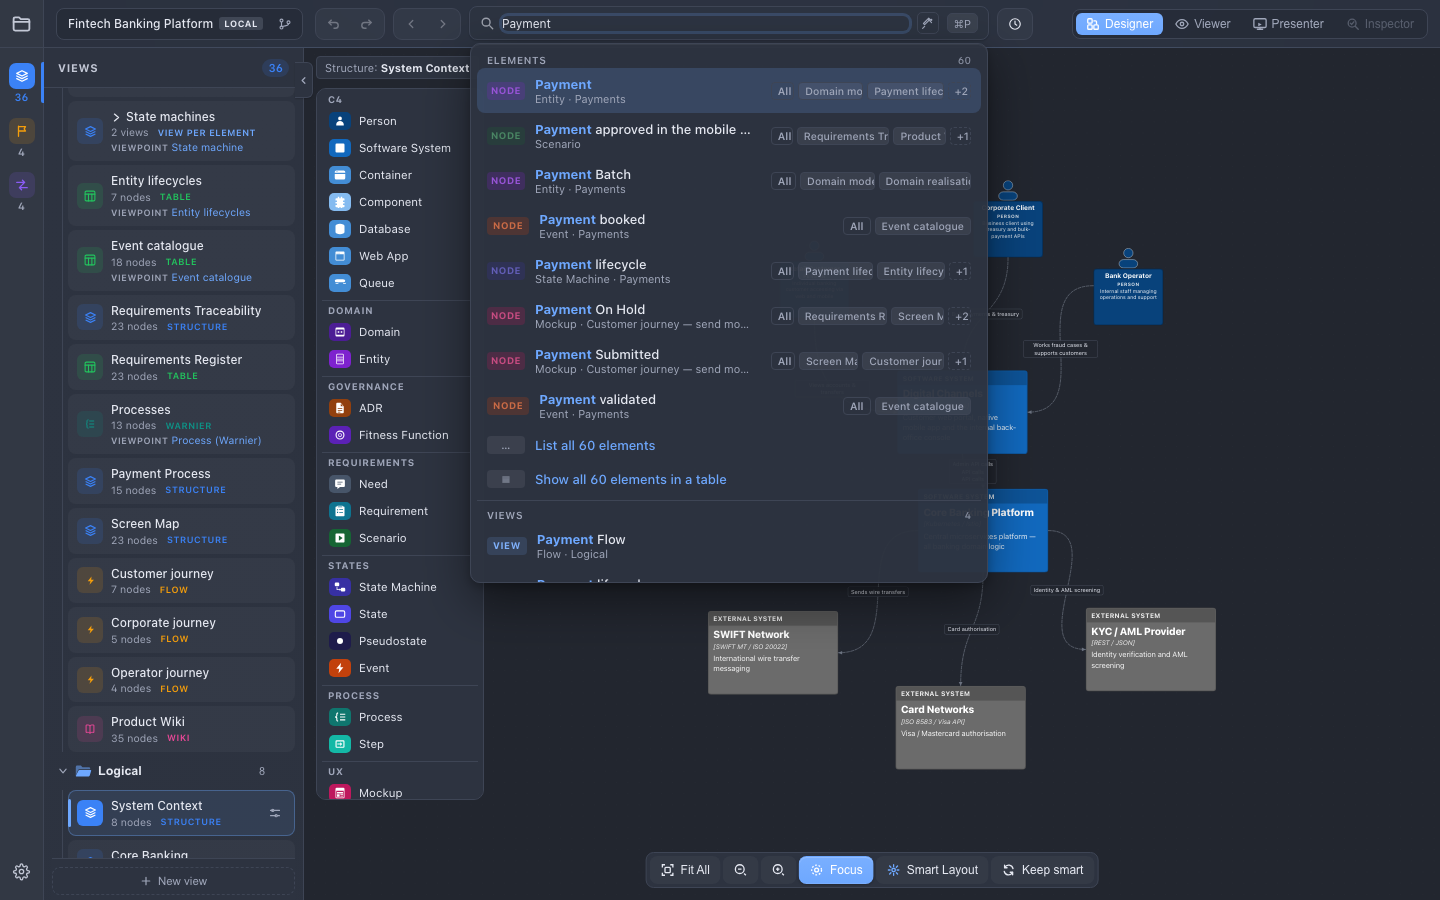
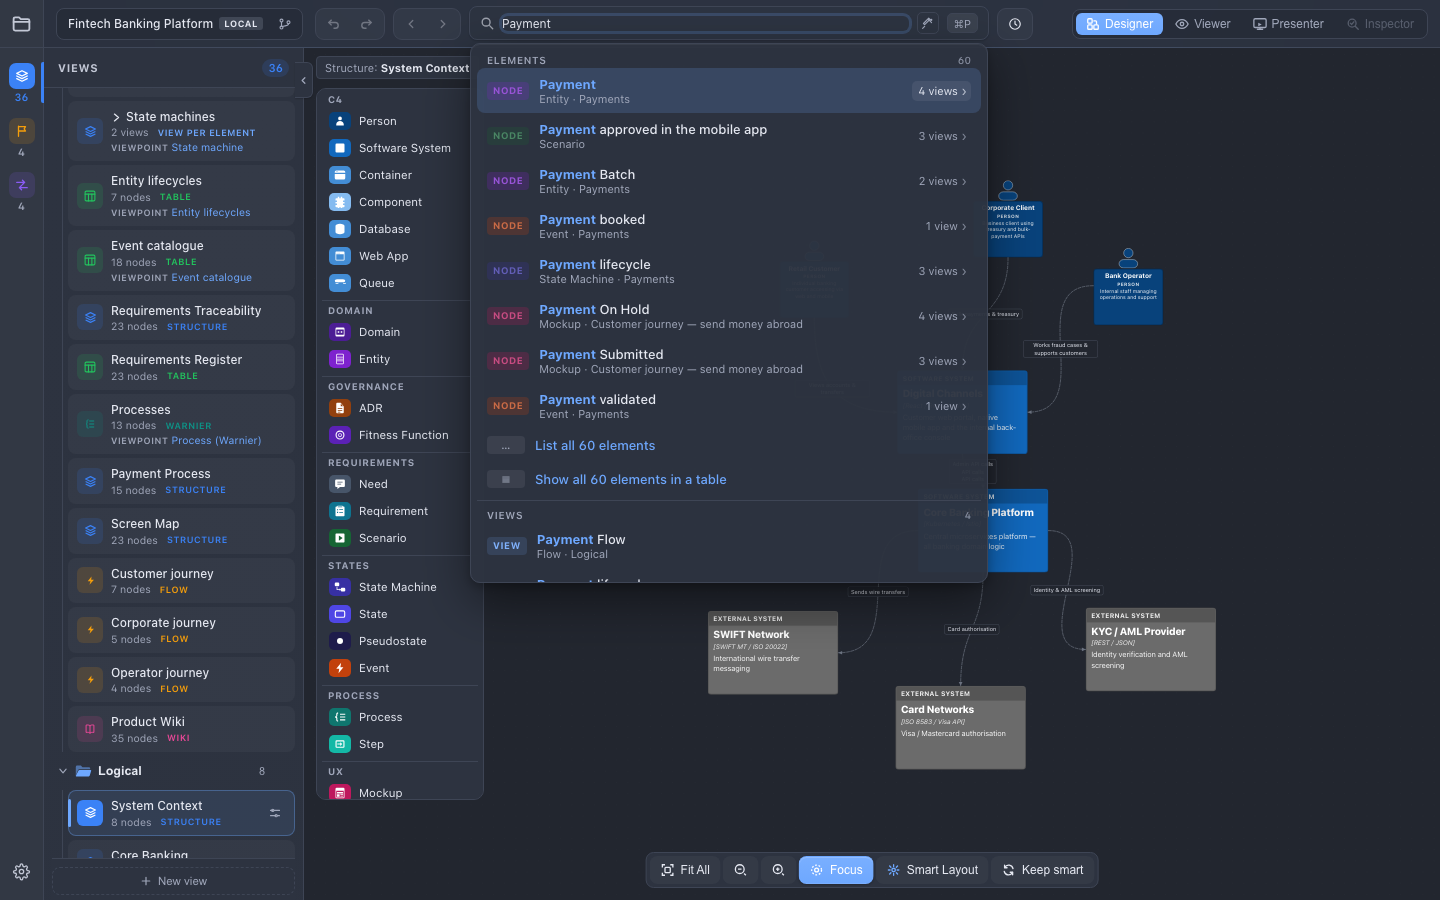
Quick Search: a hit says how many views show it; → lists them as a next step to open it in the one picked

diff --git a/apps/studio/src/renderer/src/components/QuickSearch.tsx b/apps/studio/src/renderer/src/components/QuickSearch.tsx
@@ -15,8 +15,8 @@ import { useFollowAgentStore } from '../persistence/followAgent'
 import { pickViewFor, showOnPage, viewNodeSets as viewNodeSetsOf } from '../navigation'
 import { keysTakenByDialog } from './dialogKeys'
 import { FORGE_NEEDS_AI } from '../ai/settings'
-import { KIND_PREFIXES, SEARCH_KINDS, foldText, parseSearch, searchModel, searchSuggestions, type Mark, type SearchData, type SearchHit, type SearchKind } from '@radical/common/search'
-import type { DiagramView } from '@radical/common/c4'
+import { KIND_PREFIXES, SEARCH_KINDS, foldText, parseSearch, searchModel, searchSuggestions, viewTypeName, type Mark, type SearchData, type SearchHit, type SearchKind } from '@radical/common/search'
+import { normalizeViewFolder, type DiagramView } from '@radical/common/c4'
 import type { Metamodel } from '@radical/common/metamodel'
 import { revealViewFolder, useLeftPanelSection } from '@radical/ui/components/RightPanel'
 import { availableCommands, useCommands, type Command } from '../commands'
@@ -355,6 +355,32 @@ export function QuickSearch(): React.ReactElement | null {
     return out
   }
 
+  // The second step: where to open an element or relation hit (→, or the
+  // count of views at its right). The view a pick opens comes first, then
+  // the others as pickViewFor ranks them, then All elements.
+  const [openIn, setOpenIn] = useState<SearchHit | null>(null)
+  const [openHover, setOpenHover] = useState(0)
+  useEffect(() => { setOpenIn(null) }, [q])
+  const places = useMemo<Place[]>(() => {
+    if (!openIn) return []
+    const rel = openIn.kind === 'relation' ? c4Relations[openIn.id] : undefined
+    const best = rel ? pickViewFor([rel.sourceId, rel.targetId], activeViewId, views, viewNodeSets) : pickViewForNode(openIn.id)
+    const size = (id: string): number => viewNodeSets[id]?.size ?? 0
+    const ids = viewsShowing(openIn).sort((a, b) =>
+      Number(b === best) - Number(a === best) || PLACE_RANK(views[a]) - PLACE_RANK(views[b]) || size(a) - size(b) || views[a].name.localeCompare(views[b].name))
+    const out: Place[] = ids.map((id) => {
+      const v = views[id]
+      const folder = normalizeViewFolder(v.folder)
+      return { viewId: id, label: v.name, sub: [viewTypeName(v), folder, `${size(id)} element${size(id) === 1 ? '' : 's'}`].filter(Boolean).join(' · '), best: id === best, current: id === activeViewId }
+    })
+    out.push({ viewId: null, label: 'All elements', sub: 'Every element of the model, no view', best: best === null, current: activeViewId === null })
+    return out
+  }, [openIn, c4Relations, activeViewId, views, viewNodeSets]) // eslint-disable-line react-hooks/exhaustive-deps
+  const showPlaces = (hit: SearchHit): void => { setOpenIn(hit); setOpenHover(0); inputRef.current?.focus() }
+  useEffect(() => {
+    wrapRef.current?.querySelector('.qs-place.active')?.scrollIntoView({ block: 'nearest' })
+  }, [openHover])
+
   // Open the containers around the target that the view shown has
   // collapsed (the store decides per view, see expandAncestors).
   const expandAncestors = (nodeId: string): void => useDiagramStore.getState().expandAncestors(nodeId)
@@ -481,7 +507,22 @@ export function QuickSearch(): React.ReactElement | null {
   }
 
   const onInputKey = (e: React.KeyboardEvent<HTMLInputElement>): void => {
-    if (e.key === 'ArrowDown') {
+    if (openIn) {
+      // Where to open the hit: ↑ ↓ choose, Enter opens, ← or Esc go back.
+      if (e.key === 'ArrowDown') { e.preventDefault(); setOpenHover((h) => Math.min(h + 1, places.length - 1)); return }
+      if (e.key === 'ArrowUp') { e.preventDefault(); setOpenHover((h) => Math.max(0, h - 1)); return }
+      if (e.key === 'Enter') { e.preventDefault(); const p = places[openHover]; if (p) pickHit(openIn, p.viewId); return }
+      if (e.key === 'ArrowLeft' || e.key === 'Escape') { e.preventDefault(); e.stopPropagation(); setOpenIn(null); return }
+    }
+    if (e.key === 'ArrowRight') {
+      // → at the end of the words: where to open the hit highlighted.
+      const r = items[hover]
+      const el = e.currentTarget
+      if (r?.type === 'hit' && (r.hit.kind === 'element' || r.hit.kind === 'relation') && el.selectionStart === el.value.length) {
+        e.preventDefault()
+        showPlaces(r.hit)
+      }
+    } else if (e.key === 'ArrowDown') {
       e.preventDefault()
       setHover((h) => Math.min(h + 1, Math.max(0, items.length - 1)))
     } else if (e.key === 'ArrowUp') {
@@ -702,7 +743,7 @@ export function QuickSearch(): React.ReactElement | null {
           )}
 
           {/* The prefixes, or what completes the word typed (Tab takes the first). */}
-          {!aiMode && !parsed.command && (q.trim() === '' || suggestions.length > 0) && (
+          {!aiMode && !openIn && !parsed.command && (q.trim() === '' || suggestions.length > 0) && (
             <div className="qs-suggest" aria-label={q.trim() ? 'Suggestions' : 'Prefixes'}>
               {(q.trim() ? suggestions.map((sg) => ({ key: sg.query, label: sg.label, hint: sg.hint, query: sg.query }))
                 : PREFIX_CHIPS.map((c) => ({ key: c.prefix, label: c.prefix, hint: c.hint, query: c.prefix }))
@@ -726,7 +767,7 @@ export function QuickSearch(): React.ReactElement | null {
           <div className="quick-search-results">
             {!aiMode && q.trim() === '' && !aiBusy && !aiLast && (
               <div className="quick-search-hint">
-                Type to search. <kbd>↑</kbd> <kbd>↓</kbd> navigate, <kbd>↵</kbd> jump, <kbd>⇧</kbd>+<kbd>↵</kbd> in <em>all nodes</em>, <kbd>&gt;</kbd> commands
+                Type to search. <kbd>↑</kbd> <kbd>↓</kbd> navigate, <kbd>↵</kbd> jump, <kbd>→</kbd> choose the view, <kbd>&gt;</kbd> commands
                 {aiConfigured && (<>, <kbd>⌘</kbd>+<kbd>↵</kbd> ask AI, <kbd>Tab</kbd> AI mode</>)}.
               </div>
             )}
@@ -739,7 +780,35 @@ export function QuickSearch(): React.ReactElement | null {
             {!aiMode && parsed.scope && q.trim() !== '' && (
               <div className="qs-scope">In <strong>{parsed.scope.name}</strong></div>
             )}
-            {(() => {
+            {openIn && (
+              <div className="qs-section" role="group" aria-label="Open in">
+                <div className="qs-open-in-head">
+                  <button type="button" className="qs-open-in-back" title="Back to the results (←)" aria-label="Back to the results"
+                    onMouseDown={(e) => e.preventDefault()} onClick={() => setOpenIn(null)}>‹</button>
+                  <span>Open <strong>{openIn.label}</strong> in</span>
+                </div>
+                {places.map((p, i) => (
+                  <div
+                    key={p.viewId ?? 'all'}
+                    className={`quick-search-item qs-place${i === openHover ? ' active' : ''}`}
+                    onMouseEnter={() => setOpenHover(i)}
+                    onMouseDown={(e) => e.preventDefault()}
+                    onClick={() => pickHit(openIn, p.viewId)}
+                    role="button"
+                    tabIndex={-1}
+                  >
+                    <span className="quick-search-kind quick-search-kind-view">{p.viewId ? 'VIEW' : 'ALL'}</span>
+                    <span className="quick-search-item-main">
+                      <span className="quick-search-item-label">{p.label}</span>
+                      <span className="quick-search-item-sub">{p.sub}</span>
+                    </span>
+                    {p.best && <span className="qs-place-tag">opens with ↵</span>}
+                    {p.current && <span className="qs-place-tag">shown</span>}
+                  </div>
+                ))}
+              </div>
+            )}
+            {!openIn && (() => {
               let at = -1
               return sections.map((sec) => (
                 <div key={sec.id} className="qs-section" role="group" aria-label={sec.title}>
@@ -760,7 +829,7 @@ export function QuickSearch(): React.ReactElement | null {
                         role="button"
                         tabIndex={-1}
                       >
-                        <ItemBody item={item} views={views} activeViewId={activeViewId} viewsShowing={viewsShowing} onChip={(vid) => item.type === 'hit' && pickHit(item.hit, vid)} metamodel={metamodel} />
+                        <ItemBody item={item} views={views} viewsShowing={viewsShowing} onPlaces={() => item.type === 'hit' && showPlaces(item.hit)} metamodel={metamodel} />
                       </div>
                     )
                   })}
@@ -807,6 +876,16 @@ type Item =
 
 interface Section { id: string; title: string; count: number; items: Item[] }
 
+/** Where a hit can open: a view (null: All elements). */
+interface Place { viewId: string | null; label: string; sub: string; best: boolean; current: boolean }
+
+/** The order of the views to open a hit in, as pickViewFor prefers them: a
+ *  diagram, then a table, wiki, hierarchy or Warnier view, then a matrix or flow. */
+function PLACE_RANK(v: DiagramView | undefined): number {
+  const kind = v?.kind ?? 'static'
+  return kind === 'static' || kind === 'explore' ? 0 : kind === 'matrix' || kind === 'dynamic' ? 2 : 1
+}
+
 const SECTION_TITLES: Record<SearchKind, string> = {
   view: 'Views', folder: 'Folders', element: 'Elements', relation: 'Relations',
   sequence: 'Sequences', presentation: 'Presentations', slide: 'Slides', milestone: 'Milestones',
@@ -845,12 +924,11 @@ function Marked({ text, marks }: { text: string; marks: Mark[] }): React.ReactEl
   return <>{parts}</>
 }
 
-function ItemBody({ item, views, activeViewId, viewsShowing, onChip, metamodel }: {
+function ItemBody({ item, views, viewsShowing, onPlaces, metamodel }: {
   item: Item
   views: Record<string, DiagramView>
-  activeViewId: string | null
   viewsShowing: (hit: SearchHit) => string[]
-  onChip: (viewId: string | null) => void
+  onPlaces: () => void
   metamodel: Metamodel
 }): React.ReactElement {
   if (item.type === 'more' || item.type === 'table') {
@@ -888,7 +966,7 @@ function ItemBody({ item, views, activeViewId, viewsShowing, onChip, metamodel }
     )
   }
   const r = item.hit
-  const chips = r.kind === 'element' || r.kind === 'relation' ? viewsShowing(r) : null
+  const shownIn = r.kind === 'element' || r.kind === 'relation' ? viewsShowing(r).length : null
   const typeColor = r.kind === 'element' && r.type ? metamodel.nodeTypes[r.type]?.color : undefined
   return (
     <>
@@ -904,36 +982,15 @@ function ItemBody({ item, views, activeViewId, viewsShowing, onChip, metamodel }
             : viewDetail(r, views)}
         </span>
       </span>
-      {chips && (
-        <span className="quick-search-views" title="Click to open in this scope">
-          {/* "All nodes" chip — opens with no active view filter */}
-          <span
-            className={`quick-search-view-chip all${activeViewId === null ? ' active' : ''}`}
-            onMouseDown={(e) => e.preventDefault()}
-            onClick={(e) => { e.stopPropagation(); onChip(null) }}
-            title="Open in All nodes (no view filter)"
-          >
-            All
-          </span>
-          {chips.slice(0, 2).map((vid) => (
-            <span
-              key={vid}
-              className={`quick-search-view-chip${vid === activeViewId ? ' active' : ''}`}
-              onMouseDown={(e) => e.preventDefault()}
-              onClick={(e) => { e.stopPropagation(); onChip(vid) }}
-              title={`Open in view: ${views[vid]?.name ?? vid}`}
-            >
-              {views[vid]?.name ?? vid}
-            </span>
-          ))}
-          {chips.length > 2 && (
-            <span className="quick-search-view-chip more" title={chips.slice(2).map((vid) => views[vid]?.name ?? vid).join(', ')}>+{chips.length - 2}</span>
-          )}
-          {r.kind === 'element' && chips.length === 0 && (
-            <span className="quick-search-view-chip model-only" title="Exists in the model but not in any view">
-              model only
-            </span>
-          )}
+      {shownIn !== null && (
+        <span
+          className={`qs-places${shownIn === 0 ? ' none' : ''}`}
+          role="button"
+          title={shownIn === 0 ? 'In no view: opens in All elements (→ to choose)' : 'Choose the view to open it in (→)'}
+          onMouseDown={(e) => e.preventDefault()}
+          onClick={(e) => { e.stopPropagation(); onPlaces() }}
+        >
+          {shownIn === 0 ? 'model only' : `${shownIn} view${shownIn === 1 ? '' : 's'}`}<span className="qs-places-chevron" aria-hidden>›</span>
         </span>
       )}
     </>

diff --git a/apps/web/manual.html b/apps/web/manual.html
@@ -575,10 +575,10 @@
         <figure class="doc-shot">
           <img class="shot-light" src="screenshots/search-light.png?v=__BUILD__" alt="Quick Search open with the query Payment: hits in sections Views, Elements, Relations and more, each with its count, the matched part in bold" loading="lazy" />
           <img class="shot-dark" src="screenshots/search-dark.png?v=__BUILD__" alt="Quick Search open with the query Payment: hits in sections Views, Elements, Relations and more, each with its count, the matched part in bold" loading="lazy" />
-          <figcaption><kbd>⌘/Ctrl+P</kbd> lists the hits in sections. Each element lists the views it appears in.</figcaption>
+          <figcaption><kbd>⌘/Ctrl+P</kbd> lists the hits in sections; each element says how many views show it.</figcaption>
         </figure>
         <ul>
-          <li><strong>Quick Search</strong> is in the middle of the top bar on every view. Every word must match, in any order, without case or accents; <code>ps</code> finds <em>Payment Service</em> by its initials. A match in a description or property shows the words around it. <kbd>Enter</kbd> goes there: a view opens, an element is selected where a view shows it (<kbd>Shift+Enter</kbd> picks it in <em>All elements</em>), a slide opens in Presenter (<kbd>Shift+Enter</kbd> plays from it), a folder opens in the list of views. With an AI provider configured, <em>✨</em> turns the box into the <a href="#ai">assistant</a>.</li>
+          <li><strong>Quick Search</strong> is in the middle of the top bar on every view. Every word must match, in any order, without case or accents; <code>ps</code> finds <em>Payment Service</em> by its initials. A match in a description or property shows the words around it. <kbd>Enter</kbd> goes there: a view opens, an element is selected where a view shows it (<kbd>→</kbd> first lists the views to choose from, <kbd>Shift+Enter</kbd> picks it in <em>All elements</em>), a slide opens in Presenter (<kbd>Shift+Enter</kbd> plays from it), a folder opens in the list of views. With an AI provider configured, <em>✨</em> turns the box into the <a href="#ai">assistant</a>.</li>
           <li><strong>Prefixes</strong> narrow it: <code>v:</code> views, <code>f:</code> folders, <code>e:</code> elements, <code>r:</code> relations, <code>s:</code> sequences, <code>p:</code> presentations and slides, <code>m:</code> milestones; <code>@</code> the view shown, <code>in:</code> a view by name, <code>type:</code> a type, <code>status:accepted</code> a property's value. The box suggests what fits; <kbd>Tab</kbd> takes the first. See <a href="reference.html#search">the prefixes</a>.</li>
           <li><strong>Nothing typed</strong>, it lists the places you visited last. <strong><code>&gt;</code></strong> lists the commands of the toolbar and the canvas.</li>
           <li><strong>Show all in a table</strong> under the elements found opens <em>All elements</em> with only those rows.</li>

diff --git a/apps/studio/src/renderer/src/studio.css b/apps/studio/src/renderer/src/studio.css
@@ -2132,9 +2132,32 @@ div.milestone-option { cursor: default; }
   border-color: var(--accent);
 }
 /* ─── Quick search · sections, marks, suggestions ─────────────────── */
-/* The name first: the view chips give way to it. */
-.quick-search-item .quick-search-item-main { flex: 1 1 auto; min-width: 45%; }
-.quick-search-item .quick-search-views { flex-shrink: 1; min-width: 0; overflow: hidden; }
+/* A hit's views: how many, and → (or a click) to choose where it opens. */
+.qs-places {
+  flex-shrink: 0;
+  display: inline-flex;
+  align-items: center;
+  gap: 3px;
+  height: 20px;
+  padding: 0 4px 0 7px;
+  border-radius: 5px;
+  font-size: 11px;
+  color: var(--text-muted);
+  white-space: nowrap;
+  cursor: pointer;
+}
+.qs-places.none { font-style: italic; }
+.qs-places-chevron { font-size: 14px; line-height: 1; opacity: 0.7; }
+.quick-search-item.active .qs-places { color: var(--text-primary); background: color-mix(in srgb, var(--text-primary) 8%, transparent); }
+.qs-places:hover { color: var(--accent) !important; background: color-mix(in srgb, var(--accent) 14%, transparent) !important; }
+.qs-open-in-head { display: flex; align-items: center; gap: 6px; padding: 4px 6px 6px; font-size: 12px; color: var(--text-muted); }
+.qs-open-in-head strong { color: var(--text-primary); font-weight: 600; }
+.qs-open-in-back {
+  width: 22px; height: 22px; border: 1px solid var(--border-color); border-radius: 5px;
+  background: transparent; color: var(--text-primary); font-size: 15px; line-height: 1; cursor: pointer;
+}
+.qs-open-in-back:hover { background: color-mix(in srgb, var(--accent) 14%, transparent); }
+.qs-place-tag { flex-shrink: 0; font-size: 10.5px; color: var(--text-muted); padding: 0 6px; border: 1px solid var(--border-color); border-radius: 4px; }
 .qs-section + .qs-section { margin-top: 4px; padding-top: 4px; border-top: 1px solid var(--border-subtle, var(--border-color)); }
 .qs-section-head {
   display: flex;

diff --git a/apps/e2e/tests/studio/search.spec.ts b/apps/e2e/tests/studio/search.spec.ts
@@ -334,3 +334,33 @@ test('> lists the commands and runs the one picked', async ({ page, studio }) =>
   await page.keyboard.type('>import from radical hub')
   await expect(page.locator('.quick-search-hint')).toContainText('No command matches.')
 })
+
+// 2026-10-27: the views of every hit, as chips, cut each other and the names
+// short; the list comes first, where to open a hit is a step of its own.
+test('a hit lists its views as a next step, and opens in the one picked', async ({ page, studio }) => {
+  await studio.seed()
+  await studio.open('v-context')
+  const search = page.locator('.quick-search-bar').getByPlaceholder(/^Search/)
+  await search.click()
+  await page.keyboard.type('Orders DB')
+  const hit = page.locator('.quick-search-item[data-kind="element"]').first()
+  await expect(hit).toContainText('Orders DB')
+  await expect(hit.locator('.qs-places')).toHaveText(/^3 views/)
+  await expect(page.locator('.quick-search-view-chip')).toHaveCount(0)
+
+  await page.keyboard.press('ArrowRight')
+  const places = page.locator('.qs-place')
+  await expect(page.locator('.qs-open-in-head')).toContainText('Open Orders DB in')
+  // The view Enter opens first, the others after it, All elements last.
+  await expect(places).toHaveText([/^VIEWContainers/, /Place Order Flow|Element Table/, /Place Order Flow|Element Table/, /^ALLAll elements/])
+  await expect(places.first()).toContainText('opens with ↵')
+  await page.keyboard.press('ArrowLeft')
+  await expect(page.locator('.qs-section[aria-label="Elements"]')).toBeVisible()
+
+  await page.keyboard.press('ArrowRight')
+  const table = await places.allTextContents()
+  for (let i = 0; i < table.findIndex((t) => t.includes('Element Table')); i++) await page.keyboard.press('ArrowDown')
+  await page.keyboard.press('Enter')
+  await expect(page).toHaveURL(/\/v\/v-table/)
+  await expect(studio.row('db')).toHaveClass(/tv-row-selected/)
+})

diff --git a/apps/web/reference.html b/apps/web/reference.html
@@ -527,6 +527,7 @@ radical-mcp --version</code></pre>
             <tbody>
               <tr><td><kbd>⌘/Ctrl+P</kbd></td><td>Quick Search (and AI prompt); <kbd>&gt;</kbd> first lists the commands</td></tr>
               <tr><td><kbd>Tab</kbd> / <kbd>⌘/Ctrl+Enter</kbd></td><td>In Quick Search: take the first suggestion, or on an empty box switch to AI mode / send to AI</td></tr>
+              <tr><td><kbd>→</kbd> · <kbd>←</kbd></td><td>In Quick Search: list the views to open the highlighted element or relation in · back to the results</td></tr>
               <tr><td><kbd>⌘/Ctrl+F</kbd></td><td>Find in the view shown; <kbd>Enter</kbd> / <kbd>Shift+Enter</kbd> next / previous hit, <kbd>Esc</kbd> closes</td></tr>
               <tr><td><kbd>⌘/Ctrl+Z</kbd> · <kbd>⌘/Ctrl+⇧+Z</kbd></td><td>Undo · Redo (Designer)</td></tr>
               <tr><td>The special key: <kbd>Alt</kbd>/<kbd>⌥</kbd> (<em>Settings → Special key</em>)</td><td>Held with an element selected: mark where a relation from it, or nesting, can go</td></tr>

diff --git a/CHANGELOG.md b/CHANGELOG.md
@@ -8,7 +8,7 @@ and this project adheres to [Semantic Versioning](https://semver.org/spec/v2.0.0
 ## [Unreleased]
 
 ### Added
-- Quick Search finds every kind of place: views (by name, folder, viewpoint and type), view folders, elements (also by property values), relations, sequences, presentations and their slides, and milestones, in sections with their counts. Every word must match, in any order, without case or accents, initials too (`ps` → Payment Service); the matched part is in bold and a match in a description shows the words around it. A slide opens in Presenter (Shift+Enter plays from it), a sequence its flow view, a folder in the list of views
+- Quick Search finds every kind of place: views (by name, folder, viewpoint and type), view folders, elements (also by property values), relations, sequences, presentations and their slides, and milestones, in sections with their counts. Every word must match, in any order, without case or accents, initials too (`ps` → Payment Service); the matched part is in bold and a match in a description shows the words around it. A slide opens in Presenter (Shift+Enter plays from it), a sequence its flow view, a folder in the list of views. A hit says how many views show it; → lists them, best first, to open it in the one picked (the view chips on every hit are gone)
 - Search prefixes: `v:` `f:` `e:` `r:` `s:` `p:` `m:` for one kind, `@` the view shown, `in:` a view by name, `type:` a type, `status:accepted` a property's value; the box suggests prefixes, views, types and values, Tab takes the first
 - Quick Search with nothing typed lists the places visited last; `>` lists the commands of the toolbar, the rail and the canvas; *Show all in a table* opens All elements with only the elements found
 - Find in the view (⌘/Ctrl+F): a bar over the view finds its elements, dims the rest on a canvas and the other rows on a table, steps through the hits with Enter and Shift+Enter

diff --git a/architecture/nodes/conceptual/modelling/open-hit-in-chosen-view.md b/architecture/nodes/conceptual/modelling/open-hit-in-chosen-view.md
@@ -2,8 +2,8 @@
 id: "3b2489bf-27cc-42d7-ba50-c8560042cd91"
 type: "requirement"
 label: "Open hit in chosen view"
-action: "Studio shall open the hit in that view, or in All elements for the All chip, expand its collapsed ancestors and select it; each hit shows up to three views that show it with a count of the rest, and an element no view shows is marked model only."
+action: "Studio shall list where to open it, in place of the results: the view a pick opens first, then every other view that shows it (a diagram before a table or wiki, before a matrix or flow, the smaller first), each with its type, folder and number of elements, then All elements; Enter opens it there, expands its collapsed ancestors and selects it, and the left arrow or Escape goes back to the results. A hit shows only how many views show it, or model only."
 ears_type: "event-driven"
-rationale: "An element often appears in several views; the user picks the context to land in. Evidence: apps/studio/src/renderer/src/components/QuickSearch.tsx (quick-search-view-chip, pickResult with viewOverride)."
-trigger: "the user clicks a view chip of an element or relation in the Quick Search results"
+rationale: "An element often appears in several views; the user picks the context to land in. The views used to be chips on every hit, which cut each other and the names short in a long list (product owner, 2026-10-27: show the list first, ask where to open it in a next step). Evidence: apps/studio/src/renderer/src/components/QuickSearch.tsx (openIn, placesFor)."
+trigger: "the user presses the right arrow on an element or relation hit in Quick Search, or clicks the count of views at its right"
 ---

diff --git a/architecture/nodes/conceptual/modelling/choose-where-to-open-a-hit.md b/architecture/nodes/conceptual/modelling/choose-where-to-open-a-hit.md
@@ -1,0 +1,9 @@
+---
+id: "6e6500cc-ce29-4901-bf0c-22ec3415c52d"
+type: "scenario"
+label: "Choose where to open a hit"
+given: "Orders DB, shown by the Containers and Place Order Flow views and the Element Table"
+tests: "apps/e2e/tests/studio/search.spec.ts › a hit lists its views as a next step, and opens in the one picked"
+then: "the hit shows 3 views; the list Open Orders DB in shows Containers first, then the others and All elements; the left arrow goes back to the results; Enter opens Element Table with Orders DB selected"
+when: "the user searches for it in Quick Search, presses the right arrow, then the left arrow, then the right arrow again, moves down to Element Table and presses Enter"
+---
